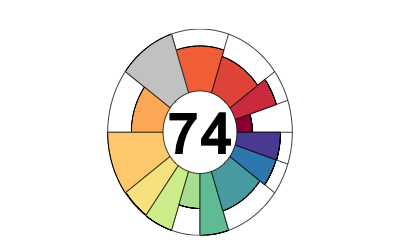
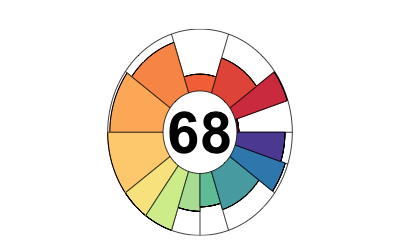
automatically create_pages from draft commit 9f746e9

diff --git a/scores/index.md b/scores/index.md
@@ -4,18 +4,18 @@ title: "Scores"
 excerpt: "OHI scores for Aruba and regions contained"
 share: false
 ads: false
-branch_scenario: draft/subcountry2014
+branch_scenario: published/subcountry2014
 toc: true
 ---
 
 Scores displayed below are based on template data that were extracted from the global assessment. These scores will update when data layers are modified.
 
-<nav class="navbar navbar-default" role="navigation">   <div class="container-fluid">     <div class="navbar-header">       <a class="navbar-brand" href="#">Branch/Scenario</a>     </div>     <div class="collapse navbar-collapse" id="navbar-1">       <ul class="nav navbar-nav">         <li class="dropdown">           <a href="#" class="dropdown-toggle" data-toggle="dropdown" role="button" aria-expanded="false">draft/subcountry2014<span class="caret"></span></a>           <ul class="dropdown-menu" role="menu">                       <li><a href="{{ site.baseurl }}/./scores/">published/subcountry2014</a></li>                     </ul>         </li>       </ul>     </div>   </div> </nav> 
+<nav class="navbar navbar-default" role="navigation">   <div class="container-fluid">     <div class="navbar-header">       <a class="navbar-brand" href="#">Branch/Scenario</a>     </div>     <div class="collapse navbar-collapse" id="navbar-1">       <ul class="nav navbar-nav">         <li class="dropdown">           <a href="#" class="dropdown-toggle" data-toggle="dropdown" role="button" aria-expanded="false">published/subcountry2014<span class="caret"></span></a>           <ul class="dropdown-menu" role="menu">                       <li><a href="{{ site.baseurl }}/draft/subcountry2014/scores/">draft/subcountry2014</a></li>                     </ul>         </li>       </ul>     </div>   </div> </nav> 
 
 
 ## Aruba
   
-![]({{ site.baseurl }}/results/draft/subcountry2014/figures/flower_GLOBAL.png)
+![]({{ site.baseurl }}/results/published/subcountry2014/figures/flower_GLOBAL.png)
 
 |                                |  score| status| future|
 |:-------------------------------|------:|------:|------:|
@@ -43,7 +43,7 @@ Scores displayed below are based on template data that were extracted from the g
 
 ## Aruba
   
-![]({{ site.baseurl }}/results/draft/subcountry2014/figures/flower_Aruba.png)
+![]({{ site.baseurl }}/results/published/subcountry2014/figures/flower_Aruba.png)
 
 |                                |  score| status| future| trend| pressures| resilience|
 |:-------------------------------|------:|------:|------:|-----:|---------:|----------:|

diff --git a/regions/index.md b/regions/index.md
@@ -4,16 +4,16 @@ title: "Regions"
 excerpt: "OHI regions for Aruba"
 share: false
 ads: false
-branch_scenario: draft/subcountry2014
+branch_scenario: published/subcountry2014
 toc: true
 ---
 
 Regions are the fundamental spatial units of analysis for the Ocean Health Index. Scores are calculated for each region individually and then combined (with an offshore area-weighted average) to produce scores for the entire study area: {{ site.study_area }}. These template regions can be modified; they were identified as the largest subcountry division within {{ site.study_area }}.
 
-<nav class="navbar navbar-default" role="navigation">   <div class="container-fluid">     <div class="navbar-header">       <a class="navbar-brand" href="#">Branch/Scenario</a>     </div>     <div class="collapse navbar-collapse" id="navbar-1">       <ul class="nav navbar-nav">         <li class="dropdown">           <a href="#" class="dropdown-toggle" data-toggle="dropdown" role="button" aria-expanded="false">draft/subcountry2014<span class="caret"></span></a>           <ul class="dropdown-menu" role="menu">                       <li><a href="{{ site.baseurl }}/./regions/">published/subcountry2014</a></li>                     </ul>         </li>       </ul>     </div>   </div> </nav> 
+<nav class="navbar navbar-default" role="navigation">   <div class="container-fluid">     <div class="navbar-header">       <a class="navbar-brand" href="#">Branch/Scenario</a>     </div>     <div class="collapse navbar-collapse" id="navbar-1">       <ul class="nav navbar-nav">         <li class="dropdown">           <a href="#" class="dropdown-toggle" data-toggle="dropdown" role="button" aria-expanded="false">published/subcountry2014<span class="caret"></span></a>           <ul class="dropdown-menu" role="menu">                       <li><a href="{{ site.baseurl }}/draft/subcountry2014/regions/">draft/subcountry2014</a></li>                     </ul>         </li>       </ul>     </div>   </div> </nav> 
 
 ![]({{ site.baseurl }}/results/{{ page.branch_scenario }}/figures/regions_600x400.png)
-<!--script src="https://embed.github.com/view/geojson/OHI-Science/abw/draft/subcountry2014/spatial/regions_gcs.geojson"></script-->
+<!--script src="https://embed.github.com/view/geojson/OHI-Science/abw/published/subcountry2014/spatial/regions_gcs.geojson"></script-->
 
 Or see the [interactive map of the offshore regions on Github](https://github.com/OHI-Science/{{ site.git_repo }}/blob/{{ page.branch_scenario }}/spatial/regions_gcs.geojson).
 

diff --git a/goals/index.md b/goals/index.md
@@ -4,14 +4,14 @@ title: "Goals"
 excerpt: "OHI goals for Aruba"
 share: false
 ads: false
-branch_scenario: draft/subcountry2014
+branch_scenario: published/subcountry2014
 toc: true
 output: html_document
 ---
 
 The following goal models are from the global assessment in 2014. These models should be modified when better data or indicators are available.
 
-<nav class="navbar navbar-default" role="navigation">   <div class="container-fluid">     <div class="navbar-header">       <a class="navbar-brand" href="#">Branch/Scenario</a>     </div>     <div class="collapse navbar-collapse" id="navbar-1">       <ul class="nav navbar-nav">         <li class="dropdown">           <a href="#" class="dropdown-toggle" data-toggle="dropdown" role="button" aria-expanded="false">draft/subcountry2014<span class="caret"></span></a>           <ul class="dropdown-menu" role="menu">                       <li><a href="{{ site.baseurl }}/./goals/">published/subcountry2014</a></li>                     </ul>         </li>       </ul>     </div>   </div> </nav> 
+<nav class="navbar navbar-default" role="navigation">   <div class="container-fluid">     <div class="navbar-header">       <a class="navbar-brand" href="#">Branch/Scenario</a>     </div>     <div class="collapse navbar-collapse" id="navbar-1">       <ul class="nav navbar-nav">         <li class="dropdown">           <a href="#" class="dropdown-toggle" data-toggle="dropdown" role="button" aria-expanded="false">published/subcountry2014<span class="caret"></span></a>           <ul class="dropdown-menu" role="menu">                       <li><a href="{{ site.baseurl }}/draft/subcountry2014/goals/">draft/subcountry2014</a></li>                     </ul>         </li>       </ul>     </div>   </div> </nav> 
 
 <h2>Food Provision: Fisheries</h2>
 

diff --git a/layers/index.md b/layers/index.md
@@ -4,7 +4,7 @@ title: "Layers"
 excerpt: "OHI layers for Aruba"
 share: false
 ads: false
-branch_scenario: draft/subcountry2014
+branch_scenario: published/subcountry2014
 toc: true
 ---
 
